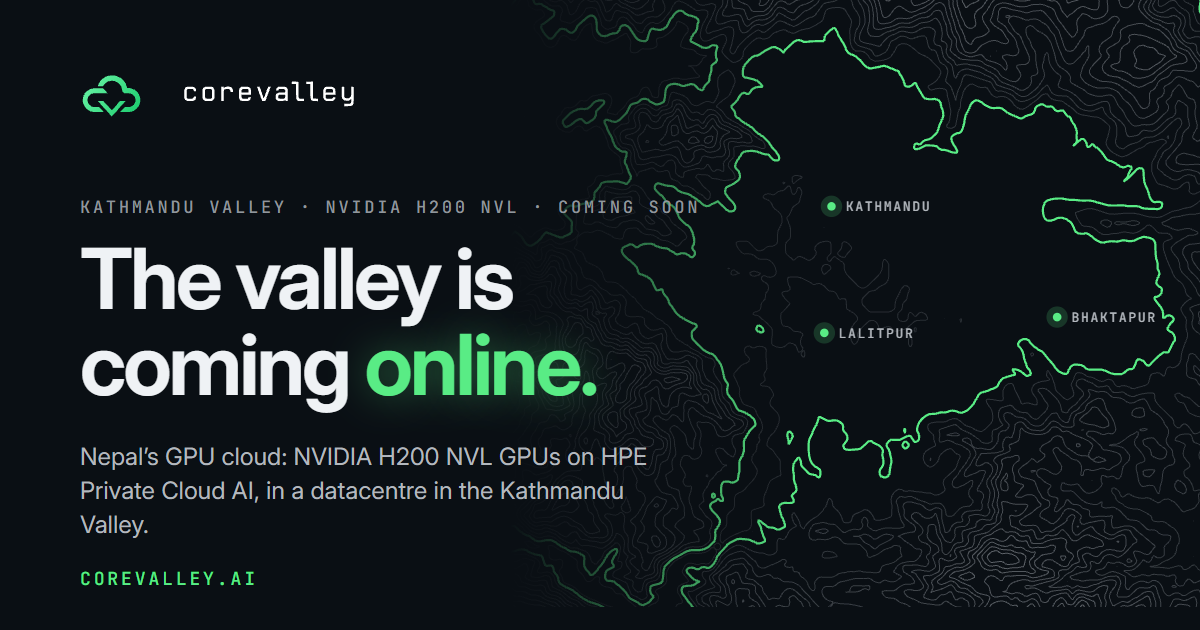
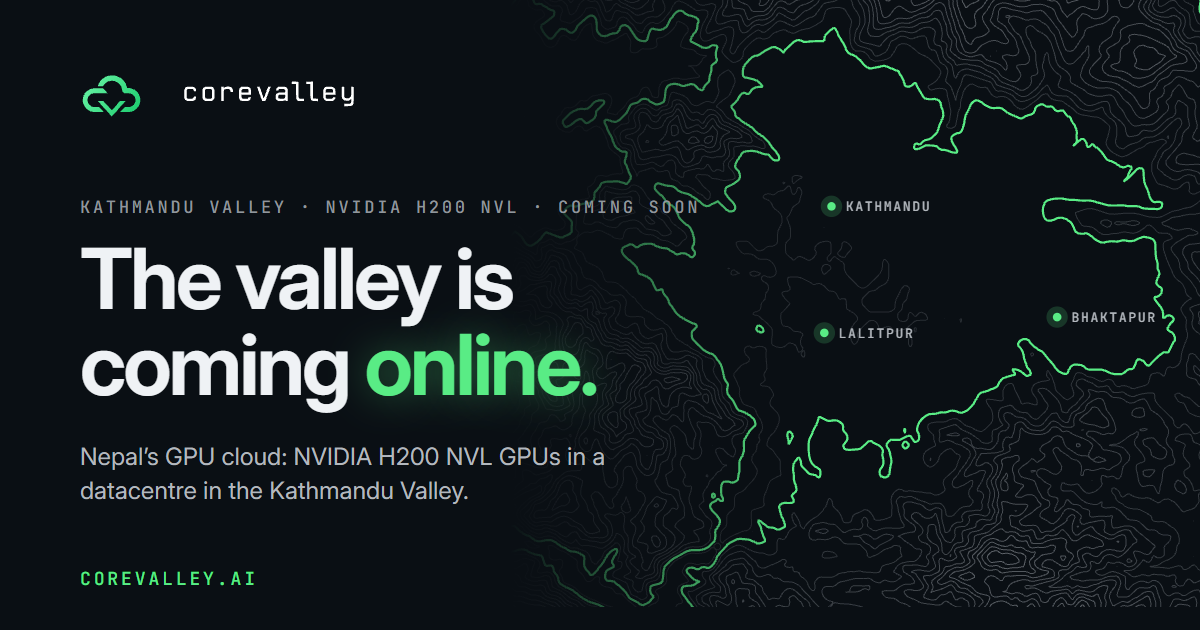
Remove HPE from the site until the launch event
The HPE name, logo and GreenLake references come off every page, the
legal pages and the share image. The privacy policy, data residency page
and /trust still disclose the platform vendor's hosted management service
outside Nepal, without naming it.

Changed region(s): [[0.0617, 0.6937, 0.555, 0.8444]]

diff --git a/copy/en/legal.ts b/copy/en/legal.ts
@@ -2,8 +2,8 @@
  * The legal pages: privacy, terms and data residency.
  *
  * Plain-language summaries of how CoreValley actually works, kept to what
- * is confirmed (docs/revamp/04): the facts registry, the HPE Private Cloud
- * AI briefing and the owner's answers. Anything that belongs to a contract
+ * is confirmed (docs/revamp/04): the facts registry, the platform vendor's
+ * briefing and the owner's answers. Anything that belongs to a contract
  * (payment terms, service levels, notice periods) points to the customer's
  * agreement rather than inventing numbers. Each page says at the bottom
  * that it is a summary, not the contract.
@@ -22,12 +22,12 @@ export interface LegalPage {
   sections: LegalSection[];
 }
 
-const UPDATED = "13 October 2026";
+const UPDATED = "15 October 2026";
 
 /** Where CoreValley's own systems depend on a service abroad: said the same
     way on every page that lists them. */
-const GREENLAKE =
-  "HPE GreenLake cloud, Hewlett Packard Enterprise's hosted management service, outside Nepal: the platform needs it for signing in and for software updates, and it holds the inventory of our systems and their administrators' accounts. No customer data is stored there.";
+const VENDOR_SERVICE =
+  "Our platform vendor's hosted management service, outside Nepal: the platform needs it for signing in and for software updates, and it holds the inventory of our systems and their administrators' accounts. No customer data is stored there.";
 
 export const LEGAL: Record<"privacy" | "terms" | "data-residency", LegalPage> = {
   privacy: {
@@ -75,7 +75,7 @@ export const LEGAL: Record<"privacy" | "terms" | "data-residency", LegalPage> = 
         paragraphs: [
           "When your organisation uses CoreValley, we hold two kinds of data, kept apart. Account data identifies your organisation and its users: names, work email addresses, billing contacts, tax registration and payment references. Customer data is what your work brings and produces: datasets, model weights and checkpoints, prompts and outputs, notebooks and logs.",
           "Customer data is stored and processed on our systems in our datacentre in the Kathmandu Valley, and is not stored outside Nepal. It is yours: we delete it when you ask, or when your account closes, as set out in your agreement.",
-          "Account data is kept in our own records while the account is open, and afterwards for as long as Nepali law requires. The platform's software signs users in through HPE GreenLake cloud, outside Nepal, which may process your users' sign-in details. Email about your account goes through our email provider.",
+          "Account data is kept in our own records while the account is open, and afterwards for as long as Nepali law requires. The platform's software signs users in through its vendor's hosted management service, outside Nepal, which may process your users' sign-in details. Email about your account goes through our email provider.",
           "Payments are handled by the payment provider or bank you choose. They see the transaction, not your work.",
         ],
       },
@@ -94,7 +94,7 @@ export const LEGAL: Record<"privacy" | "terms" | "data-residency", LegalPage> = 
           "Website hosting: serves the websites and sees visitors' IP addresses.",
           "A form service: delivers contact-form enquiries and job applications.",
           "Email hosting: for @corevalley.ai addresses.",
-          GREENLAKE,
+          VENDOR_SERVICE,
         ],
       },
       {
@@ -206,7 +206,7 @@ export const LEGAL: Record<"privacy" | "terms" | "data-residency", LegalPage> = 
           "Being specific about the edges is the point. These cross the border, and none of them store your customer data:",
         ],
         bullets: [
-          GREENLAKE,
+          VENDOR_SERVICE,
           "This website, docs.corevalley.ai and status.corevalley.ai are served by a web host outside Nepal, which sees visitors' IP addresses.",
           "Enquiries and job applications sent through the forms on this website are delivered by a third-party form service outside Nepal. They carry what you type and attach, so keep confidential details for a secure channel.",
           "Email to and from @corevalley.ai addresses, including invoices and notifications, is hosted by an email provider outside Nepal. It carries what is written in the email.",

diff --git a/components/brand/partner-logos.tsx b/components/brand/partner-logos.tsx
@@ -1,15 +1,14 @@
 /**
- * Partner marks: NVIDIA and HPE, from their official artwork (the launch
- * film's assets/partners), unaltered in shape. Only the neutral parts follow
- * the theme (black on Glacier, white on Night Valley), as the two companies'
- * own black and white versions do; NVIDIA green and HPE green stay fixed.
+ * Partner marks: NVIDIA, from its official artwork (the launch film's
+ * assets/partners), unaltered in shape. Only the neutral parts follow the
+ * theme (black on Glacier, white on Night Valley), as NVIDIA's own black and
+ * white versions do; NVIDIA green stays fixed.
  * Shown to say what the cloud is built on, never to claim a partner
  * designation (docs/revamp/04 §4). Owner approved their use on 13 Oct 2026.
  */
 import { cn } from "@/lib/cn";
 
 const NVIDIA_GREEN = "#76B900";
-const HPE_GREEN = "#01A982";
 
 /** The NVIDIA logo: the eye and the wordmark (viewBox 0 0 164 30). */
 export function NvidiaLogo({ className, title = "NVIDIA" }: { className?: string; title?: string }) {
@@ -34,17 +33,3 @@ export function NvidiaLogo({ className, title = "NVIDIA" }: { className?: string
   );
 }
 
-/** The HPE logo (2025): the letters and the green element (viewBox 0 0 630 180). */
-export function HpeLogo({ className, title = "HPE" }: { className?: string; title?: string }) {
-  return (
-    <svg viewBox="0 0 630 180" role="img" aria-label={title} className={cn("h-6 w-auto", className)}>
-      <path
-        fill="none"
-        strokeWidth={36}
-        stroke="currentColor"
-        d="M18 180V0m154 180V0M18 89h137m95 91V0m0 18h102a32 32 0 0 1 0 100H250m222-67V18h158"
-      />
-      <path fill="none" strokeWidth={36} stroke={HPE_GREEN} d="M630 162H472V86h158" />
-    </svg>
-  );
-}

diff --git a/copy/en/trust.ts b/copy/en/trust.ts
@@ -44,7 +44,7 @@ export const TRUST = {
       {
         label: "Account data",
         value:
-          "Names, work emails, billing contacts and payment references. Kept in our own records while the account is open, and afterwards as long as Nepali law requires. Signing in goes through HPE GreenLake cloud and email through our email provider, both outside Nepal.",
+          "Names, work emails, billing contacts and payment references. Kept in our own records while the account is open, and afterwards as long as Nepali law requires. Signing in goes through our platform vendor's hosted management service and email through our email provider, both outside Nepal.",
       },
       {
         label: "Workload data",
@@ -63,8 +63,8 @@ export const TRUST = {
     lead: "None of these see your workload data.",
     items: [
       {
-        name: "Hewlett Packard Enterprise",
-        role: "HPE GreenLake cloud: signing in and software updates for the platform",
+        name: "Platform vendor",
+        role: "A hosted management service: signing in and software updates for the platform",
         where: "Outside Nepal",
       },
       { name: "Website and email providers", role: "Serve this website, deliver its forms and host our email", where: "Outside Nepal" },

diff --git a/components/home/built-on.tsx b/components/home/built-on.tsx
@@ -1,9 +1,9 @@
 /**
- * "Built on": the partners' own marks under the hero, and what each one
+ * "Built on": the partner's own mark under the hero, and what it
  * contributes, in one quiet band. Names are for identification; no partner
  * designation is claimed (docs/revamp/04 §4).
  */
-import { HpeLogo, NvidiaLogo } from "@/components/brand/partner-logos";
+import { NvidiaLogo } from "@/components/brand/partner-logos";
 import { HOME } from "@/copy/en/home";
 
 export function BuiltOn() {
@@ -14,8 +14,6 @@ export function BuiltOn() {
         <p className="type-kicker text-ink-3">{b.label}</p>
         <div className="flex items-center gap-8 text-ink md:gap-12" data-reveal>
           <NvidiaLogo className="h-7 md:h-8" />
-          <span aria-hidden="true" className="h-8 w-px bg-line-strong" />
-          <HpeLogo className="h-6 md:h-7" />
         </div>
         <p className="type-small max-w-[36ch] text-ink-2 md:text-right">{b.line}</p>
       </div>

diff --git a/app/(marketing)/infrastructure/page.tsx b/app/(marketing)/infrastructure/page.tsx
@@ -1,5 +1,5 @@
 import { ValleyPortrait } from "@/components/art/valley-portrait";
-import { HpeLogo, NvidiaLogo } from "@/components/brand/partner-logos";
+import { NvidiaLogo } from "@/components/brand/partner-logos";
 import { LayerStack } from "@/components/infrastructure/layer-stack";
 import { DataPath } from "@/components/infrastructure/data-path";
 import { Page } from "@/components/motion/page";
@@ -38,8 +38,6 @@ export default function InfrastructurePage() {
             <Status id="region" />
             <div className="mt-4 flex items-center gap-6 text-ink-2">
               <NvidiaLogo className="h-6" />
-              <span aria-hidden="true" className="h-6 w-px bg-line-strong" />
-              <HpeLogo className="h-5" />
             </div>
           </div>
           <figure className="flex flex-col gap-3" data-parallax="0.05">

diff --git a/copy/en/home.ts b/copy/en/home.ts
@@ -22,7 +22,7 @@ export const HOME = {
     kicker: ["Kathmandu Valley", "NVIDIA H200 NVL", "Coming soon"],
     /** "The valley is / coming online." — "online." is the lit word. */
     title: { line1: "The valley is", line2: "coming", lit: "online." },
-    lead: "Nepal's GPU cloud: NVIDIA H200 NVL GPUs, built with HPE and NVIDIA, in a datacentre in the Kathmandu Valley.",
+    lead: "Nepal's GPU cloud: NVIDIA H200 NVL GPUs in a datacentre in the Kathmandu Valley.",
     primary: { href: "/contact", label: "Request access" },
     secondary: { href: "#stack", label: "See how it works" },
     facts: [
@@ -34,7 +34,7 @@ export const HOME = {
 
   builtOn: {
     label: "Built on",
-    line: "NVIDIA H200 NVL GPUs, on infrastructure built with HPE",
+    line: "NVIDIA H200 NVL GPUs, in a datacentre in the Kathmandu Valley",
   },
 
   gpu: {

diff --git a/copy/en/infrastructure.ts b/copy/en/infrastructure.ts
@@ -87,7 +87,7 @@ export const INFRASTRUCTURE = {
     },
     {
       q: "What runs there?",
-      a: "NVIDIA H200 NVL GPUs, on infrastructure built with HPE and NVIDIA. We don't publish the detailed configuration; customers get what they need during onboarding.",
+      a: "NVIDIA H200 NVL GPUs. We don't publish the detailed configuration; customers get what they need during onboarding.",
     },
     {
       q: "How fast is the network?",

diff --git a/copy/en/site.ts b/copy/en/site.ts
@@ -152,7 +152,7 @@ export const FOOTER = {
     { href: "/legal/data-residency", label: "Data residency" },
   ],
   copyright: `© ${new Date().getFullYear()} ${ORG.legalName}, Kathmandu`,
-  credits: "Partners are named for identification; NVIDIA and HPE marks belong to their owners.",
+  credits: "Partners are named for identification; NVIDIA marks belong to their owner.",
 } as const;
 
 export const UI = {

diff --git a/copy/en/hardware.ts b/copy/en/hardware.ts
@@ -20,7 +20,7 @@ export const HARDWARE = {
   hero: {
     kicker: "Hardware",
     title: "The GPU.",
-    lead: "NVIDIA H200 NVL: 141 GB of fast memory on every card, on infrastructure built with HPE and NVIDIA, in a datacentre in the Kathmandu Valley.",
+    lead: "NVIDIA H200 NVL: 141 GB of fast memory on every card, in a datacentre in the Kathmandu Valley.",
   },
   gpu: {
     kicker: "The GPU",

diff --git a/copy/en/company.ts b/copy/en/company.ts
@@ -53,7 +53,7 @@ export const COMPANY = {
     title: "Talk to us.",
     lines: [
       { label: "Press", value: "info@corevalley.ai", href: "mailto:info@corevalley.ai" },
-      { label: "Partners", value: "Built with HPE and NVIDIA" },
+      { label: "Partners", value: "Built on NVIDIA" },
     ],
   },
   careers: {
